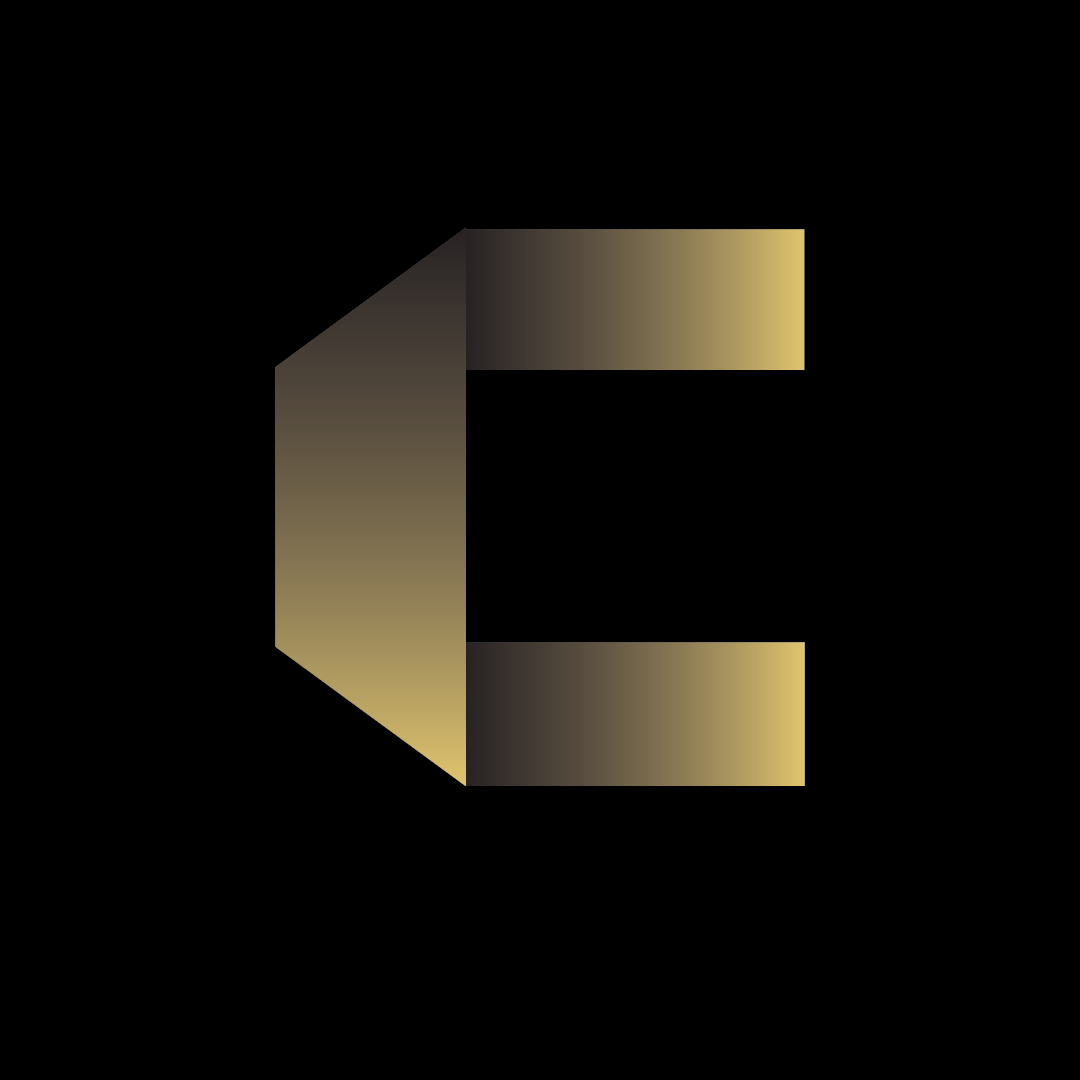
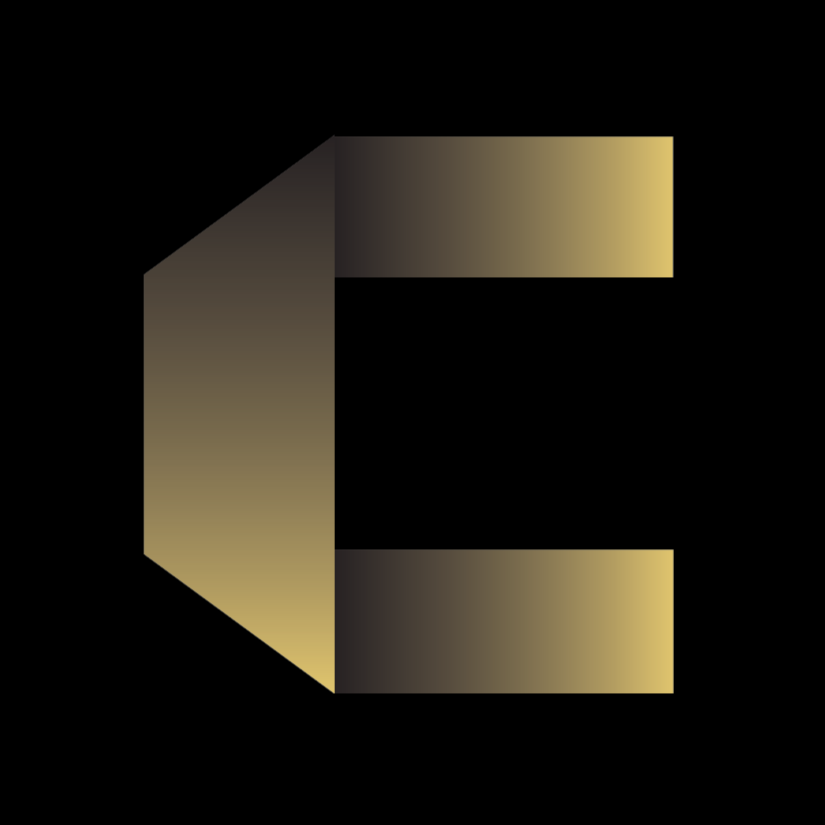
Additional porting

Changed region(s): [[0.1515, 0.1515, 0.8182, 0.8485]]

diff --git a/src/forms/signup_form.tsx b/src/forms/signup_form.tsx
@@ -1,0 +1,66 @@
+import Link from 'next/link';
+
+export default function SignupForm() {
+
+    function registerUser(e: any) {
+        e.preventDefault()
+
+        // axios.post(`http://localhost:3001/api/v1/onboarding/register_user`, {
+        //     email: e.target.email.value,
+        //     phone_number: e.target.phone.value,
+        //     first_name: e.target.firstName.value, 
+        //     last_name: e.target.lastName.value,
+        //     password: e.target.password.value,
+        //     dob: e.target.dob.value,
+        // }).then((res: any) => {
+        //     console.log(res.data)
+        // })
+
+        window.location.replace("/login")
+    }
+
+    return (
+        <form onSubmit={registerUser}>
+            <div className='flex flex-wrap'>
+                <div className='w-full md:w-1/2 px-3 mb-3 md:mb-4'>
+                    <label className='block font-mono text-white' htmlFor="grid-first-name">First Name *</label>
+                    <input className='block w-full py-2 px-3 bg-gray-200 text-gray-700 font-mono' id="firstName" type="text" placeholder="Jane"/>
+                </div>
+                <div className='w-full md:w-1/2 px-3 mb-3 md:mb-4'>
+                    <label className='block font-mono text-white' htmlFor="grid-last-name">Last Name *</label>
+                    <input className='block w-full py-2 px-3 bg-gray-200 text-gray-700 font-mono' id="lastName" type="text" placeholder="Doe"/>
+                </div>
+            </div>
+            <div className='flex flex-wrap'>
+                <div className='w-full md:w-1/2 px-3 mb-3 md:mb-4'>
+                    <label className='block font-mono text-white' htmlFor="grid-dob">Date of Birth *</label>
+                    <input className='block w-full py-2 px-3 bg-gray-200 text-gray-700 font-mono' id="dob" type="date" placeholder="MM/DD/YYYY"/>
+                </div>
+                <div className='w-full md:w-1/2 px-3 mb-3 md:mb-4'>
+                    <label className='block font-mono text-white' htmlFor="grid-phone">Phone Number *</label>
+                    <input className='block w-full py-2 px-3 bg-gray-200 text-gray-700 font-mono' id="phone" type="tel" placeholder="(234) 567-8910"/>
+                </div>
+            </div>
+            <div className='flex flex-wrap'>
+                <div className='w-full px-3 mb-3 md:mb-4'>
+                    <label className='block font-mono text-white' htmlFor="grid-first-name">Email *</label>
+                    <input className='block w-full py-2 px-3 bg-gray-200 text-gray-700 font-mono' id="email" type="text" placeholder="example@cruxrewards.com"/>
+                </div>
+            </div>
+            <div className='flex flex-wrap'>
+                <div className='w-full px-3 mb-3 md:mb-4'>
+                    <label className='block font-mono text-white' htmlFor="grid-first-name">Password *</label>
+                    <input className='block w-full py-2 px-3 bg-gray-200 text-gray-700 font-mono' id="password" type="password" placeholder="******************"/>
+                </div>
+            </div>
+            <div className='flex justify-center items-center mb-3'>
+                <button className='uppercase bg-gold hover:bg-white text-black font-mono py-2 px-20' type='submit'>Sign up</button>
+            </div>
+            <div className='flex justify-center items-center mb-3'>
+                <Link href='/login' className='text-white font-mono'>
+                    Existing user? <span className='text-gold'>Log in <span aria-hidden="true">&rarr;</span></span>
+                </Link>
+            </div>
+        </form>
+    )
+}

diff --git a/src/components/navbar.tsx b/src/components/navbar.tsx
@@ -3,6 +3,7 @@ import { Disclosure, Menu, Transition } from '@headlessui/react'
 import { Bars3Icon, BellIcon, XMarkIcon } from '@heroicons/react/24/outline'
 import { useRouter } from 'next/router'
 import Link from 'next/link'
+import Image from 'next/image'
 
 const navigation = [
   { name: 'Home', href: '/' },
@@ -36,15 +37,11 @@ export default function Navbar() {
               </div>
               <div className="flex flex-1 items-center justify-center sm:items-stretch sm:justify-start">
                 <div className="flex flex-shrink-0 items-center">
-                  <img
-                    className="block h-8 w-auto lg:hidden"
-                    src="https://tailwindui.com/img/logos/mark.svg?color=indigo&shade=500"
-                    alt="Your Company"
-                  />
-                  <img
-                    className="hidden h-8 w-auto lg:block"
-                    src="https://tailwindui.com/img/logos/mark.svg?color=indigo&shade=500"
-                    alt="Your Company"
+                  <Image
+                    src="/crux-c.png"
+                    alt="Crux Logo"
+                    width={40}
+                    height={40} 
                   />
                 </div>
                 <div className="hidden sm:ml-6 sm:block">
@@ -70,14 +67,14 @@ export default function Navbar() {
               <div className="absolute inset-y-0 right-0 flex items-center pr-2 sm:static sm:inset-auto sm:ml-6 sm:pr-0">
                 <button
                   type="button"
-                  className="rounded-full p-1 text-gray-400 hover:text-white focus:outline-none focus:ring-2 focus:ring-white focus:ring-offset-2 focus:ring-offset-gray-800"
+                  className="hidden rounded-full p-1 text-gray-400 hover:text-white focus:outline-none focus:ring-2 focus:ring-white focus:ring-offset-2 focus:ring-offset-gray-800"
                 >
                   <span className="sr-only">View notifications</span>
                   <BellIcon className="h-6 w-6" aria-hidden="true" />
                 </button>
 
                 {/* Profile dropdown */}
-                <Menu as="div" className="relative ml-3">
+                <Menu as="div" className="relative ml-3 hidden">
                   <div>
                     <Menu.Button className="flex rounded-full bg-gray-800 text-sm focus:outline-none focus:ring-2 focus:ring-white focus:ring-offset-2 focus:ring-offset-gray-800">
                       <span className="sr-only">Open user menu</span>
@@ -131,6 +128,12 @@ export default function Navbar() {
                     </Menu.Items>
                   </Transition>
                 </Menu>
+
+                <div className="lg:flex lg:flex-1 lg:justify-end pl-6">
+                  <Link href="/login" className="uppercase text-sm font-mono py-2 px-4 leading-6 text-white hover:text-black ring-1 ring-white hover:bg-white">
+                      Log in <span aria-hidden="true">&rarr;</span>
+                  </Link>
+                </div>
               </div>
             </div>
           </div>

diff --git a/src/forms/login_form.tsx b/src/forms/login_form.tsx
@@ -1,0 +1,44 @@
+import Link from 'next/link';
+
+export default function LoginForm(props: any) {
+
+    function login(e: any) {
+        e.preventDefault()
+
+        // axios.post(`http://localhost:3001/api/v1/auth/login`, {
+        //     email: e.target.email.value,
+        //     password: e.target.password.value
+        // }, { withCredentials: true }).then((res) => {
+        //     props.handleLogin(res.data.user)
+        //     window.location.replace("/dash")
+        // })
+    }
+
+    return (
+        <>
+        {props.loggedIn && <h1>{props.userData.email}</h1>}
+        <form className='w-full' onSubmit={login}>
+            <div className='flex flex-wrap'>
+                <div className='w-full px-3 mb-3 md:mb-4'>
+                    <label className='block font-mono text-white' htmlFor="grid-first-name">Email *</label>
+                    <input className='block w-full py-2 px-3 bg-gray-200 text-gray-700 font-mono' id="email" type="text" placeholder="example@cruxrewards.com"/>
+                </div>
+            </div>
+            <div className='flex flex-wrap'>
+                <div className='w-full px-3 mb-3 md:mb-4'>
+                    <label className='block font-mono text-white' htmlFor="grid-first-name">Password *</label>
+                    <input className='block w-full py-2 px-3 bg-gray-200 text-gray-700 font-mono' id="password" type="password" placeholder="******************"/>
+                </div>
+            </div>
+            <div className='flex justify-center items-center mb-4'>
+                <button className='uppercase bg-gold hover:bg-white text-black font-mono py-2 px-20' type='submit'>Log in</button>
+            </div>
+            <div className='flex justify-center items-center mb-4'>
+                <Link href='/signup' className='text-white font-mono'>
+                    New? <span className='text-gold'>Sign up <span aria-hidden="true">&rarr;</span></span>
+                </Link>
+            </div>
+        </form>
+        </>
+    )
+}

diff --git a/src/forms/waitlist_form.tsx b/src/forms/waitlist_form.tsx
@@ -1,0 +1,25 @@
+export default function WaitlistForm() {
+  return (
+    <form>
+      <div className='flex flex-wrap'>
+        <div className='w-full md:w-1/2 px-3 mb-3 md:mb-4'>
+          <label className='block font-mono text-white' htmlFor="grid-first-name">First Name *</label>
+          <input className='block w-full py-2 px-3 bg-gray-200 text-gray-700 font-mono' id="firstName" type="text" placeholder="Jane"/>
+        </div>
+        <div className='w-full md:w-1/2 px-3 mb-3 md:mb-4'>
+          <label className='block font-mono text-white' htmlFor="grid-last-name">Last Name *</label>
+          <input className='block w-full py-2 px-3 bg-gray-200 text-gray-700 font-mono' id="lastName" type="text" placeholder="Doe"/>
+        </div>
+      </div>
+      <div className='flex flex-wrap'>
+        <div className='w-full px-3 mb-3 md:mb-4'>
+          <label className='block font-mono text-white' htmlFor="grid-first-name">Email *</label>
+          <input className='block w-full py-2 px-3 bg-gray-200 text-gray-700 font-mono' id="email" type="text" placeholder="example@cruxrewards.com"/>
+        </div>
+      </div>
+      <div className='flex justify-center items-center mb-3'>
+        <button className='uppercase border border-white hover:bg-white text-white hover:text-black font-mono py-2 px-20' type='submit'>Join waitlist</button>
+      </div>
+    </form>
+  )
+}

diff --git a/src/pages/waitlist.tsx b/src/pages/waitlist.tsx
@@ -1,0 +1,23 @@
+import FormLayout from "@/components/form_layout";
+import WaitlistForm from "@/forms/waitlist_form";
+
+export default function Waitlist() {
+  return (
+    <FormLayout>
+      <div className="h-[150px]"></div>
+      <div className='container flex flex-col max-w-4xl md:flex-row mx-auto'>
+        <div className='md:w-1/2'>
+          <h1 className='uppercase font-condensed font-bold text-6xl text-gold'>
+            Waitlist
+          </h1>
+          <p className='font-mono text-white'>
+            Be the first to hear about exclusive offers and updates from Crux.
+          </p>
+        </div>
+        <div className='md:w-1/2'>
+          <WaitlistForm />
+        </div>
+      </div>
+    </FormLayout>
+  )
+}

diff --git a/src/pages/login.tsx b/src/pages/login.tsx
@@ -1,0 +1,16 @@
+import FormLayout from "@/components/form_layout";
+import LoginForm from "@/forms/login_form";
+
+export default function Login(props: any) {
+  return (
+    <FormLayout>
+        <div className='h-[150px]'></div>
+        <div className='flex flex-col items-center'>
+            <h1 className='uppercase font-condensed font-bold text-6xl text-gold'>
+                Login
+            </h1>
+        </div>
+        <LoginForm handleLogin={props.handleLogin} loggedIn={props.loggedIn} userData={props.userData}/>
+    </FormLayout>
+  )
+}

diff --git a/src/pages/signup.tsx b/src/pages/signup.tsx
@@ -1,0 +1,16 @@
+import FormLayout from "@/components/form_layout";
+import SignupForm from "@/forms/signup_form";
+
+export default function Signup() {
+  return (
+    <FormLayout>
+      <div className="h-[150px]"></div>
+      <div className='flex flex-col items-center'>
+        <h1 className='uppercase font-condensed font-bold text-6xl text-gold'>
+          Sign Up
+        </h1>
+      </div>
+      <SignupForm />
+    </FormLayout>
+  )
+}

diff --git a/src/pages/index.tsx b/src/pages/index.tsx
@@ -10,7 +10,7 @@ export default function Home() {
   return (
     <>
       <Head>
-        <title>DEV</title>
+        <title>Crux Rewards | Earn Points on Tuition</title>
         <meta name="description" content="Generated by create next app" />
         <meta name="viewport" content="width=device-width, initial-scale=1" />
         <link rel="icon" href="/favicon.ico" />

diff --git a/src/components/form_layout.tsx b/src/components/form_layout.tsx
@@ -1,0 +1,9 @@
+export default function FormLayout(props: any) {
+  return (
+    <div className='grow bg-defgray'>
+      <div className='max-w-4xl mx-auto'>
+        {props.children}
+      </div>
+    </div>
+  )
+}
